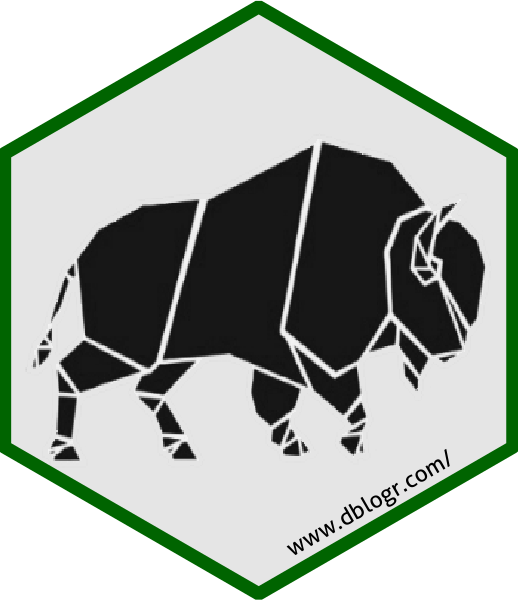
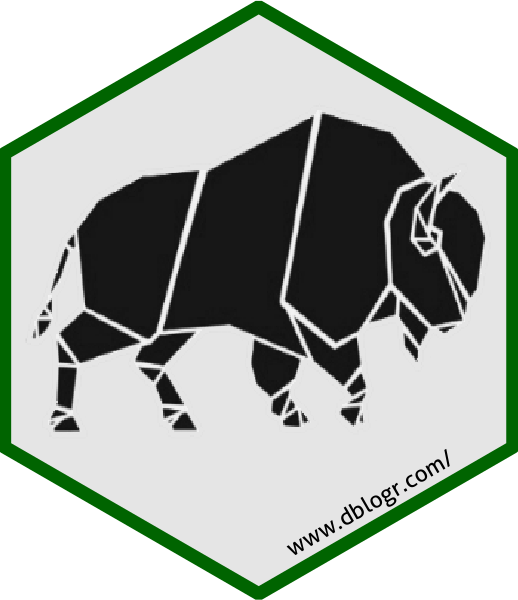
edit

Changed region(s): [[0.0618, 0.18, 0.9575, 0.78]]

diff --git a/content/dblogr/hex_stickers/index.html b/content/dblogr/hex_stickers/index.html
@@ -2,7 +2,7 @@
 title: "Hex Stickers"
 subtitle: "Creation of hex stickers with R"
 summary:  "Creation of hex stickers with R"
-date: "2021-06-10"
+date: "2021-06-12"
 author: "Derek Michael Wright <wrightmderek@gmail.com> [www.dblogr.com/](https://dblogr.com/dblogr/hex_stickers/)"
 tags: [ "dblogr", "R" ]
 weight: 5
@@ -124,7 +124,7 @@ sticker(filename = &quot;hex_agData.png&quot;,
 <pre class="r"><code>sticker(filename=&quot;hex_buffalo_black.png&quot;, package=&quot;&quot;,  
         # Logo
         &quot;logo_buffalo_black.png&quot;, 
-        s_x = 1, s_y = 1, 
+        s_x = 1, s_y = 1.1, 
         s_width = 0.9,
         # Border
         h_fill = &quot;grey90&quot;, h_color = &quot;darkgreen&quot;, h_size = 1.5,

diff --git a/content/home/logo.md b/content/home/logo.md
@@ -3,7 +3,7 @@
 widget = "blank"  # See https://sourcethemes.com/academic/docs/page-builder/
 headless = true  # This file represents a page section.
 active = true  # Activate this widget? true/false
-weight = 2  # Order that this section will appear.
+weight = 1  # Order that this section will appear.
 
 title = ""
 subtitle = ""
@@ -30,7 +30,7 @@ subtitle = ""
   # gradient_end = "SkyBlue"
   
   # Background image.
-  image = "logo.png"  # Name of image in `static/img/`.
+  image = "logo_banner.png"  # Name of image in `static/img/`.
   image_darken = 0  # Darken the image? Range 0-1 where 0 is transparent and 1 is opaque.
   image_size = "contain"  #  Options are `cover` (default), `contain`, or `actual` size.
   image_position = "center"  # Options include `left`, `center` (default), or `right`.

diff --git a/content/home/logo_end.md b/content/home/logo_end.md
@@ -30,7 +30,7 @@ subtitle = ""
   # gradient_end = "SkyBlue"
   
   # Background image.
-  image = "logo.png"  # Name of image in `static/img/`.
+  image = "logo_banner.png"  # Name of image in `static/img/`.
   image_darken = 0  # Darken the image? Range 0-1 where 0 is transparent and 1 is opaque.
   image_size = "contain"  #  Options are `cover` (default), `contain`, or `actual` size.
   image_position = "center"  # Options include `left`, `center` (default), or `right`.

diff --git a/content/home/about.md b/content/home/about.md
@@ -10,7 +10,7 @@ active: true
 headless: true
 
 # Order that this section appears on the page.
-weight: 1
+weight: 2
 
 title: Derek Michael Wright
 
